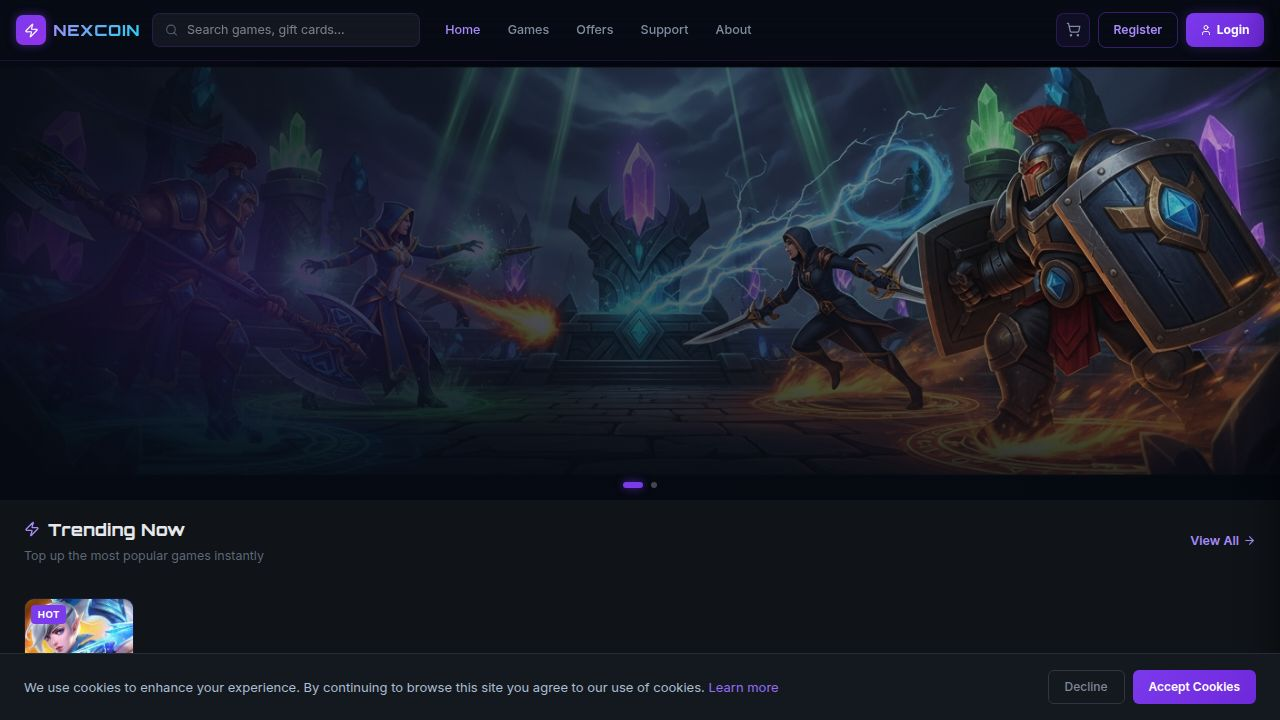
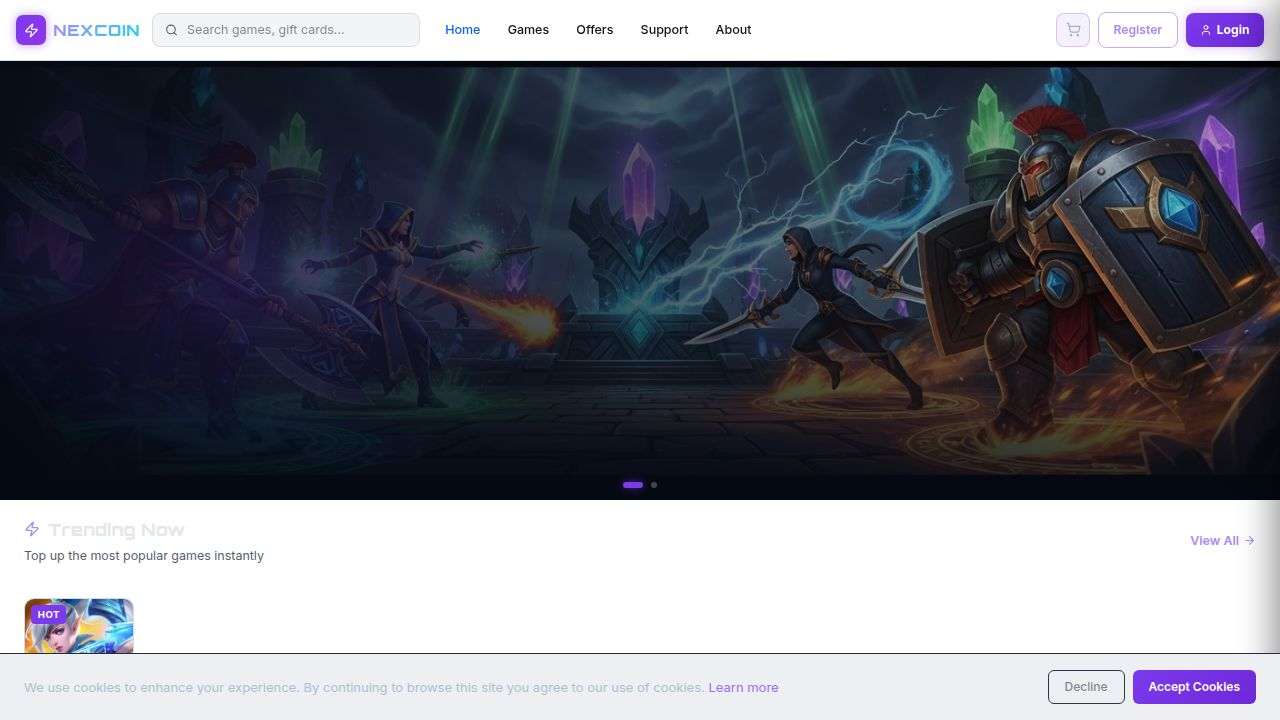
Update website header and navigation colors for light and dark modes
Introduce a new hook to detect the current theme, updating header, navigation, and search input colors in `Navbar.tsx` to adapt dynamically between light and dark modes.

Replit-Commit-Author: Agent
Replit-Commit-Session-Id: efcf0412-2655-4083-83ac-74cfc192c281
Replit-Commit-Checkpoint-Type: full_checkpoint
Replit-Commit-Event-Id: ff045aa7-cbbd-4a09-8968-d335105b70f3
Replit-Commit-Screenshot-Url: https://storage.googleapis.com/screenshot-production-us-central1/7bd3b07a-5719-4ce5-ae57-37d25498d229/efcf0412-2655-4083-83ac-74cfc192c281/9jgFPMD
Replit-Helium-Checkpoint-Created: true

diff --git a/client/src/components/Navbar.tsx b/client/src/components/Navbar.tsx
@@ -4,6 +4,7 @@ import { useState, useEffect, useRef, useMemo } from "react";
 import { useQuery } from "@tanstack/react-query";
 import { useCartStore } from "@/lib/store/cartStore";
 import { useAuthStore } from "@/lib/store/authstore";
+import { useIsLight } from "@/hooks/useIsLight";
 
 const NAV_LINKS = [
   { href: "/", label: "Home" },
@@ -173,6 +174,7 @@ export default function Navbar() {
   const [dropdownOpen, setDropdownOpen] = useState(false);
   const itemCount = useCartStore((s) => s.getItemCount());
   const { isAuthenticated, user, logout } = useAuthStore();
+  const isLight = useIsLight();
 
   const { data: siteSettings } = useQuery<Record<string, string>>({
     queryKey: ["/api/site-settings"],
@@ -272,8 +274,8 @@ export default function Navbar() {
       )}
       <nav
         style={{
-          background: "rgba(7, 11, 20, 0.95)",
-          borderBottom: "1px solid rgba(124, 58, 237, 0.18)",
+          background: isLight ? "rgba(255,255,255,0.93)" : "rgba(7, 11, 20, 0.95)",
+          borderBottom: isLight ? "1px solid hsl(var(--border))" : "1px solid rgba(124, 58, 237, 0.18)",
           backdropFilter: "blur(16px)",
           WebkitBackdropFilter: "blur(16px)",
           position: "fixed",
@@ -352,7 +354,7 @@ export default function Navbar() {
                 left: "0.8rem",
                 top: "50%",
                 transform: "translateY(-50%)",
-                color: "rgba(148, 163, 184, 0.5)",
+                color: isLight ? "hsl(var(--muted-foreground))" : "rgba(148, 163, 184, 0.5)",
                 pointerEvents: "none",
                 zIndex: 1,
               }}
@@ -370,10 +372,10 @@ export default function Navbar() {
               style={{
                 width: "100%",
                 padding: "0.42rem 1rem 0.42rem 2.1rem",
-                background: "rgba(255,255,255,0.05)",
-                border: "1px solid rgba(124, 58, 237, 0.2)",
+                background: isLight ? "hsl(var(--input))" : "rgba(255,255,255,0.05)",
+                border: `1px solid ${isLight ? "hsl(var(--border))" : "rgba(124, 58, 237, 0.2)"}`,
                 borderRadius: "8px",
-                color: "#e5e7eb",
+                color: isLight ? "hsl(var(--foreground))" : "#e5e7eb",
                 fontSize: "0.78rem",
                 outline: "none",
               }}
@@ -402,11 +404,11 @@ export default function Navbar() {
                   textDecoration: "none",
                   fontSize: "0.78rem",
                   fontWeight: 500,
-                  color: location === link.href ? "#a78bfa" : "rgba(148, 163, 184, 0.85)",
+                  color: location === link.href ? "hsl(var(--primary))" : (isLight ? "hsl(var(--foreground))" : "rgba(148, 163, 184, 0.85)"),
                   whiteSpace: "nowrap",
                 }}
-                onMouseEnter={(e) => { e.currentTarget.style.color = "#a78bfa"; }}
-                onMouseLeave={(e) => { e.currentTarget.style.color = location === link.href ? "#a78bfa" : "rgba(148, 163, 184, 0.85)"; }}
+                onMouseEnter={(e) => { e.currentTarget.style.color = "hsl(var(--primary))"; }}
+                onMouseLeave={(e) => { e.currentTarget.style.color = location === link.href ? "hsl(var(--primary))" : (isLight ? "hsl(var(--foreground))" : "rgba(148, 163, 184, 0.85)"); }}
               >
                 {link.label}
               </Link>
@@ -608,7 +610,7 @@ export default function Navbar() {
                 left: "1.75rem",
                 top: "50%",
                 transform: "translateY(-50%)",
-                color: "rgba(148, 163, 184, 0.45)",
+                color: isLight ? "hsl(var(--muted-foreground))" : "rgba(148, 163, 184, 0.45)",
                 pointerEvents: "none",
               }}
             />
@@ -624,10 +626,10 @@ export default function Navbar() {
               style={{
                 width: "100%",
                 padding: "0.55rem 1rem 0.55rem 2.1rem",
-                background: "rgba(255,255,255,0.05)",
-                border: "1px solid rgba(124, 58, 237, 0.3)",
+                background: isLight ? "hsl(var(--input))" : "rgba(255,255,255,0.05)",
+                border: `1px solid ${isLight ? "hsl(var(--border))" : "rgba(124, 58, 237, 0.3)"}`,
                 borderRadius: "8px",
-                color: "#e5e7eb",
+                color: isLight ? "hsl(var(--foreground))" : "#e5e7eb",
                 fontSize: "0.85rem",
                 outline: "none",
                 boxSizing: "border-box",

diff --git a/client/src/hooks/useIsLight.ts b/client/src/hooks/useIsLight.ts
@@ -1,0 +1,20 @@
+import { useState, useEffect } from "react";
+
+export function useIsLight(): boolean {
+  const [isLight, setIsLight] = useState<boolean>(
+    () => document.documentElement.getAttribute("data-theme") === "light",
+  );
+
+  useEffect(() => {
+    const observer = new MutationObserver(() => {
+      setIsLight(document.documentElement.getAttribute("data-theme") === "light");
+    });
+    observer.observe(document.documentElement, {
+      attributes: true,
+      attributeFilter: ["data-theme"],
+    });
+    return () => observer.disconnect();
+  }, []);
+
+  return isLight;
+}
